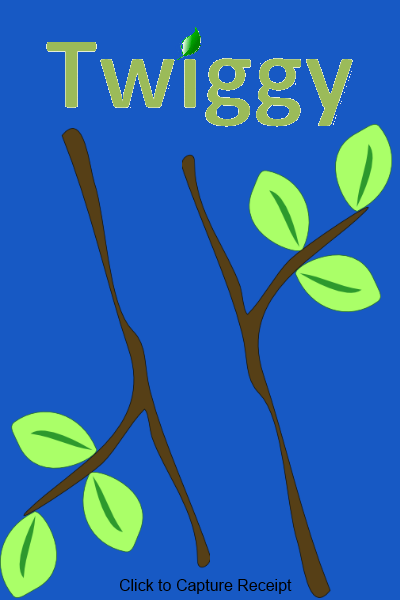
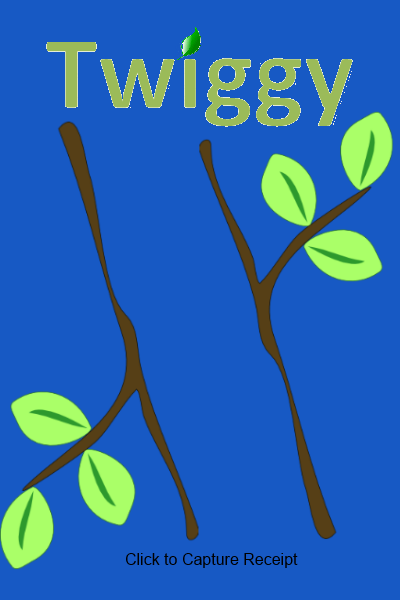
screw you git merge

Changed region(s): [[0.0, 0.18, 0.99, 1.0], [0.15, 0.18, 0.21, 0.27]]

diff --git a/project/www/process_receipt.html b/project/www/process_receipt.html
@@ -107,8 +107,8 @@
 
     </script>
   </head>
-  <body bgcolor="#00FFD8">
-	<h1 style="text-align:center"><img id="title" src="img/twiggy_logo.png"/></h1>
+  <body bgcolor="#1759C4">
+	<h1 style="text-align:center"><img id="title" src="img/twiggy_logo_no_shadow.png"/></h1>
 	<h2 style="text-align:center">Parsing your Receipt</h2>
     <img style="display:block;" width="160" height="160" id="loading" src="img/ajax-loader.gif"/>     
   </body>
